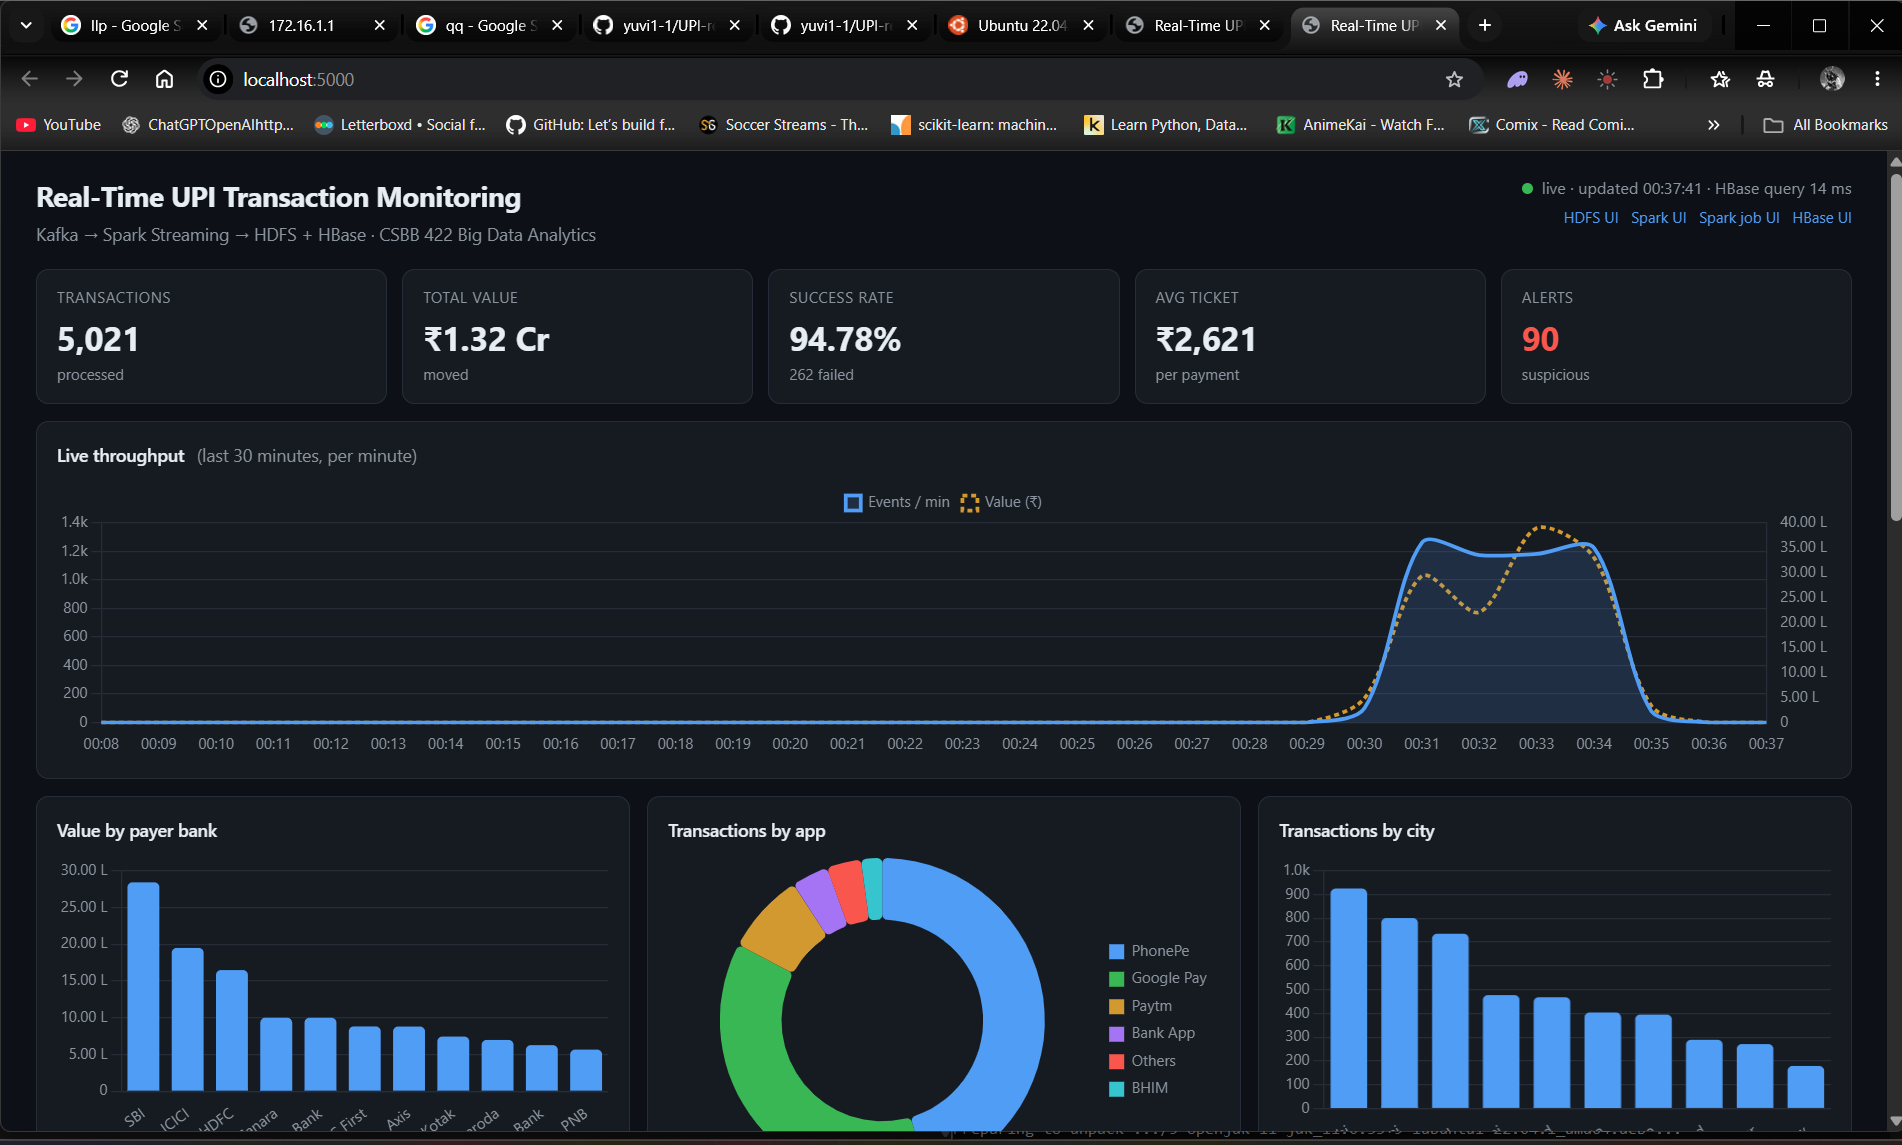
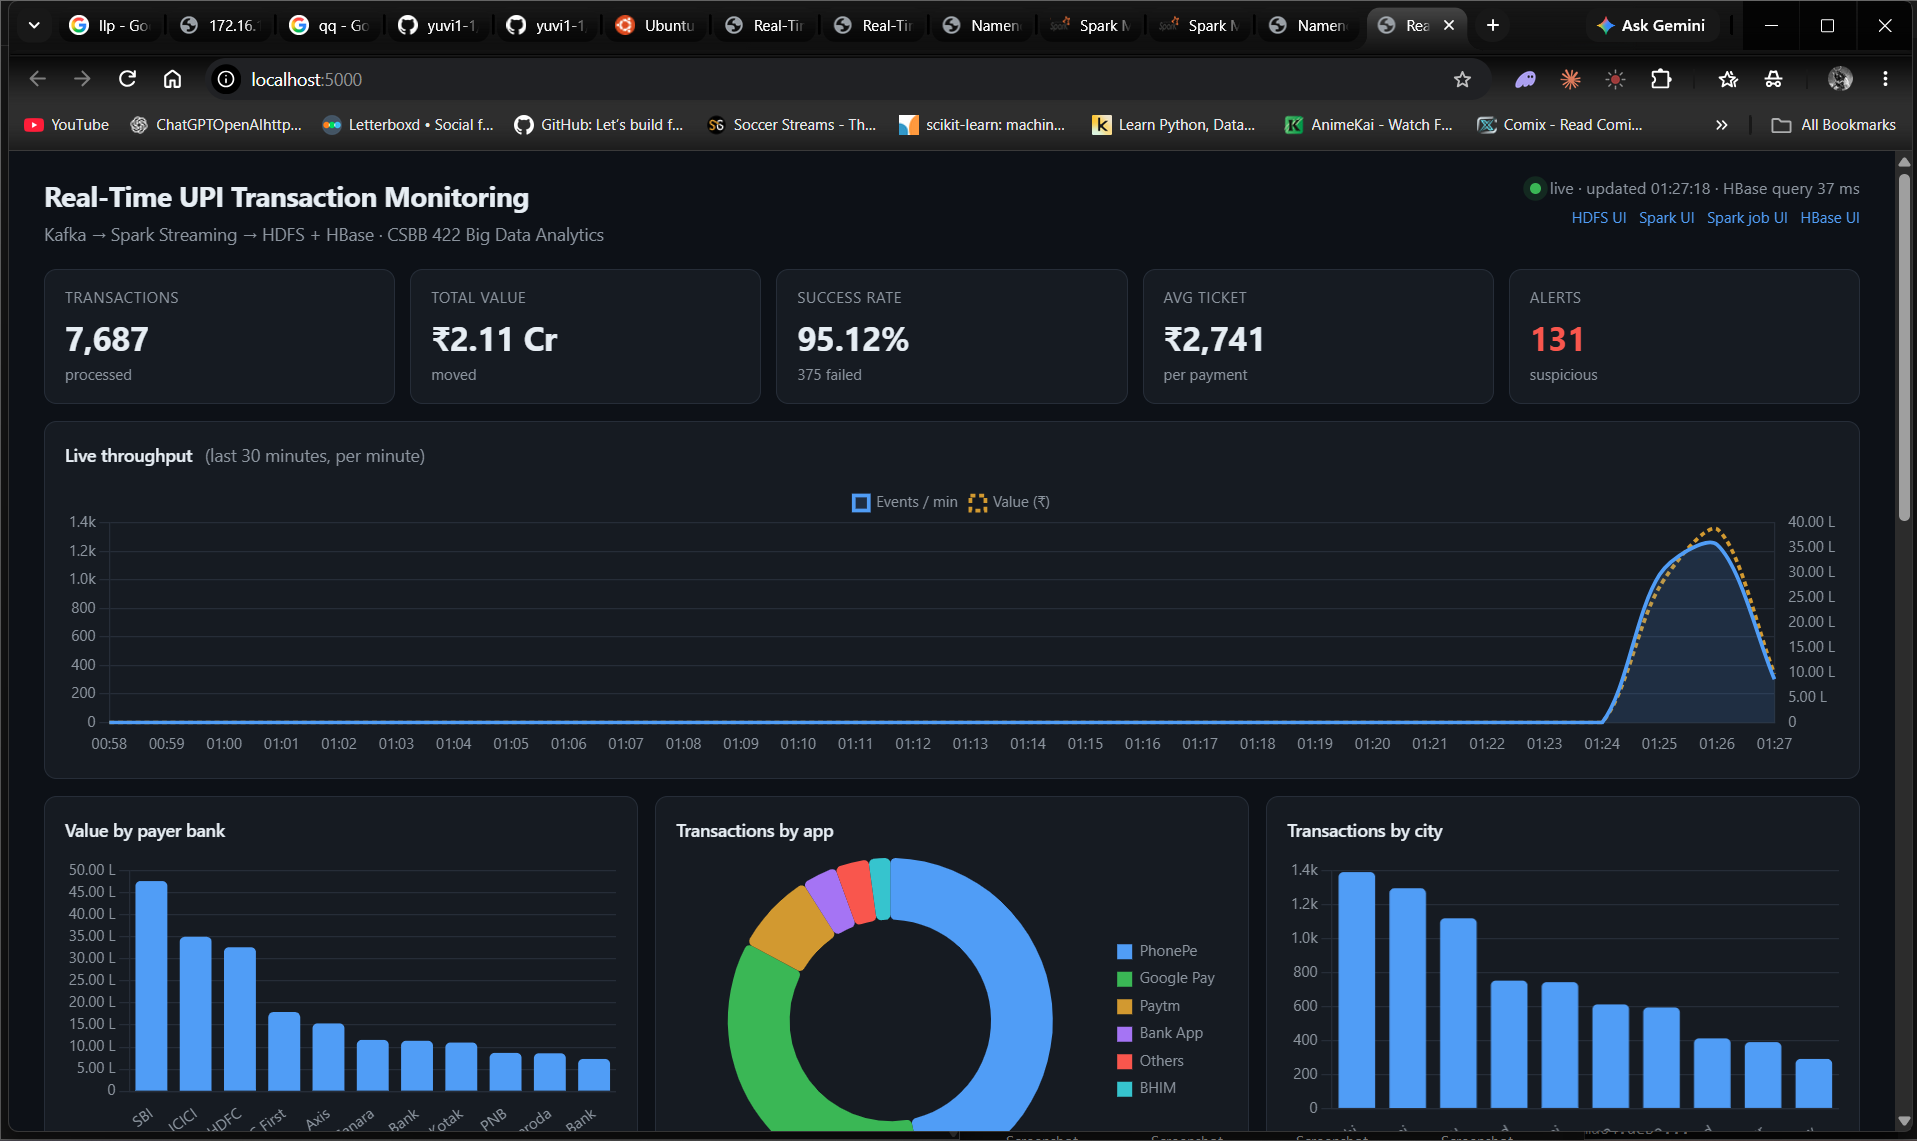
README: screenshots from the 3-laptop cluster (2 workers)
Claude-Session: https://claude.ai/code/session_01UBeewWwj1AtoT1rtxogZY8

diff --git a/README.md b/README.md
@@ -8,14 +8,18 @@ A real-time pipeline that ingests a live stream of UPI payments, computes live m
 
 ![UPI dashboard](docs/dashboard_upi.png)
 
-### Running on our cluster
-Live dashboard while streaming on the real cluster (master = Legion laptop, worker1 = MacBook):
+### Running on our 3-laptop cluster
+Master = Legion laptop (WSL), worker1 = MacBook (Ubuntu VM), worker2 = second Windows laptop (WSL). All on the same Wi‑Fi.
 
 ![Live dashboard on the cluster](docs/cluster_dashboard.png)
 
-| Spark master: worker registered, streaming + batch jobs | HDFS NameNode: DataNode on worker1 |
+| Spark master: 2 alive workers, streaming job using both | HDFS NameNode: 2 live DataNodes (worker1, worker2) |
 |---|---|
 | ![Spark master UI](docs/cluster_spark_master.png) | ![HDFS datanodes](docs/cluster_hdfs_datanodes.png) |
+
+Spark job UI (`:4040`): one micro-batch job every 5 seconds.
+
+![Spark jobs](docs/cluster_spark_jobs.png)
 
 ---
 
